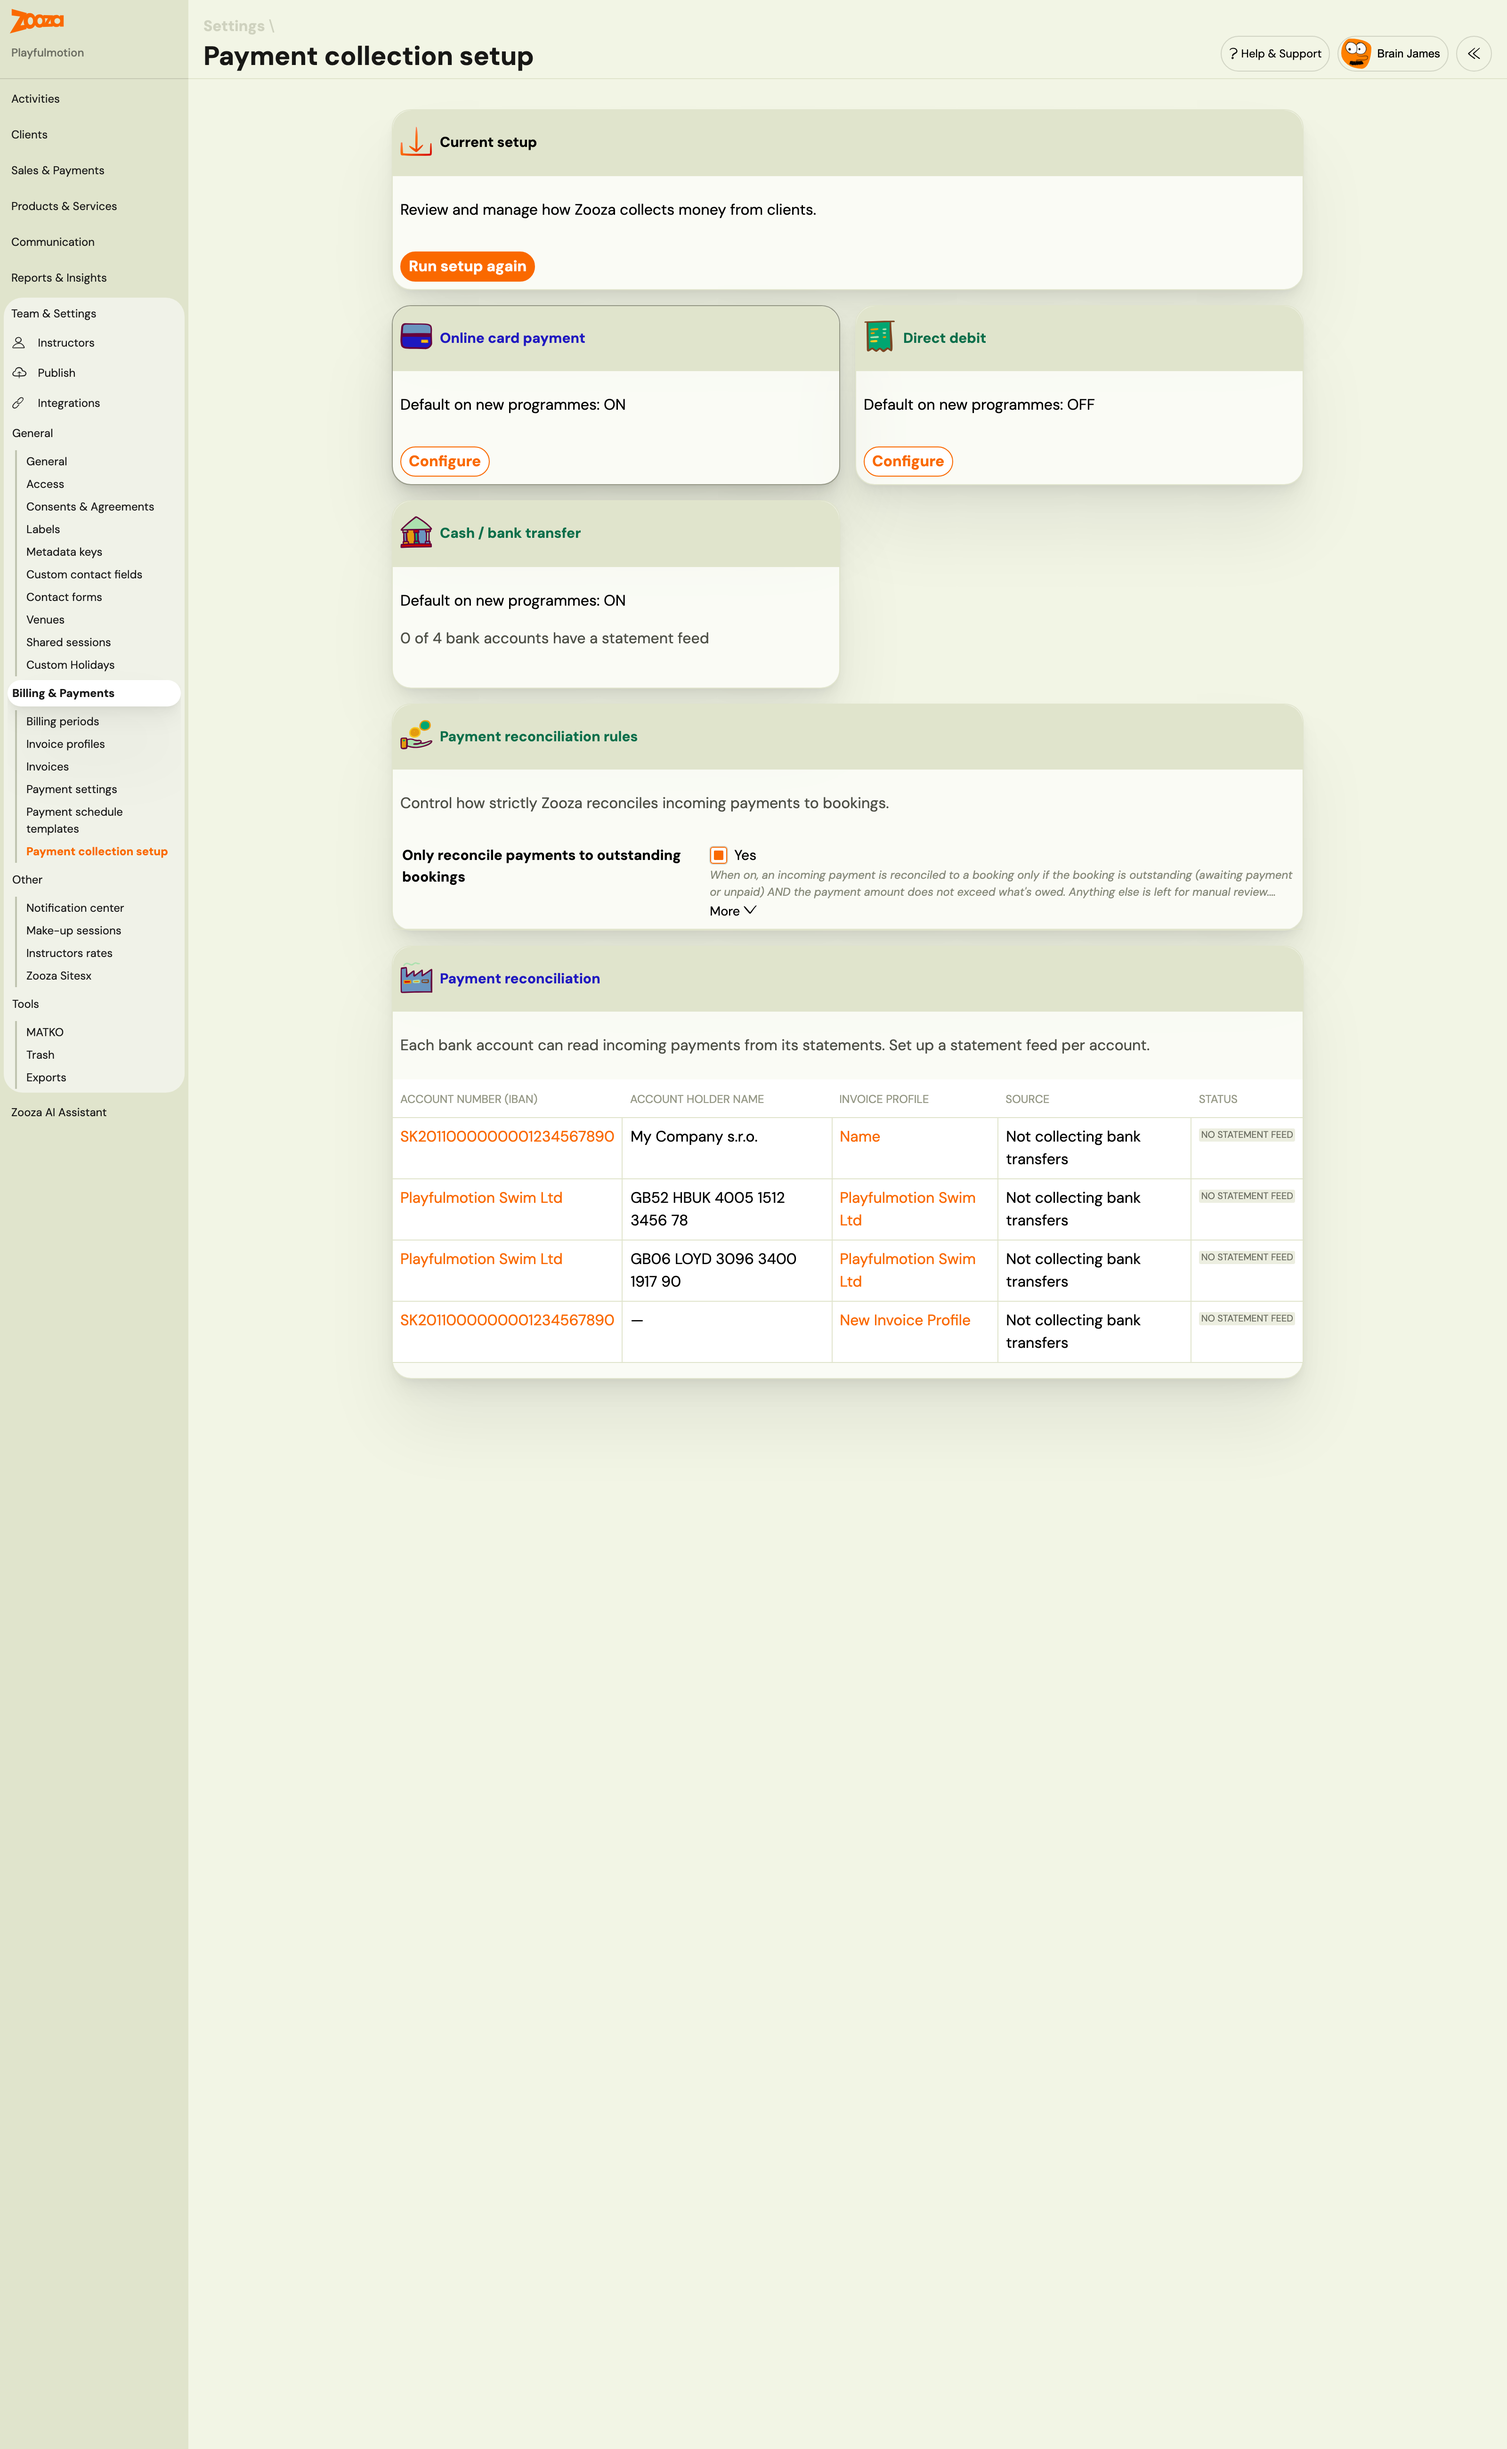
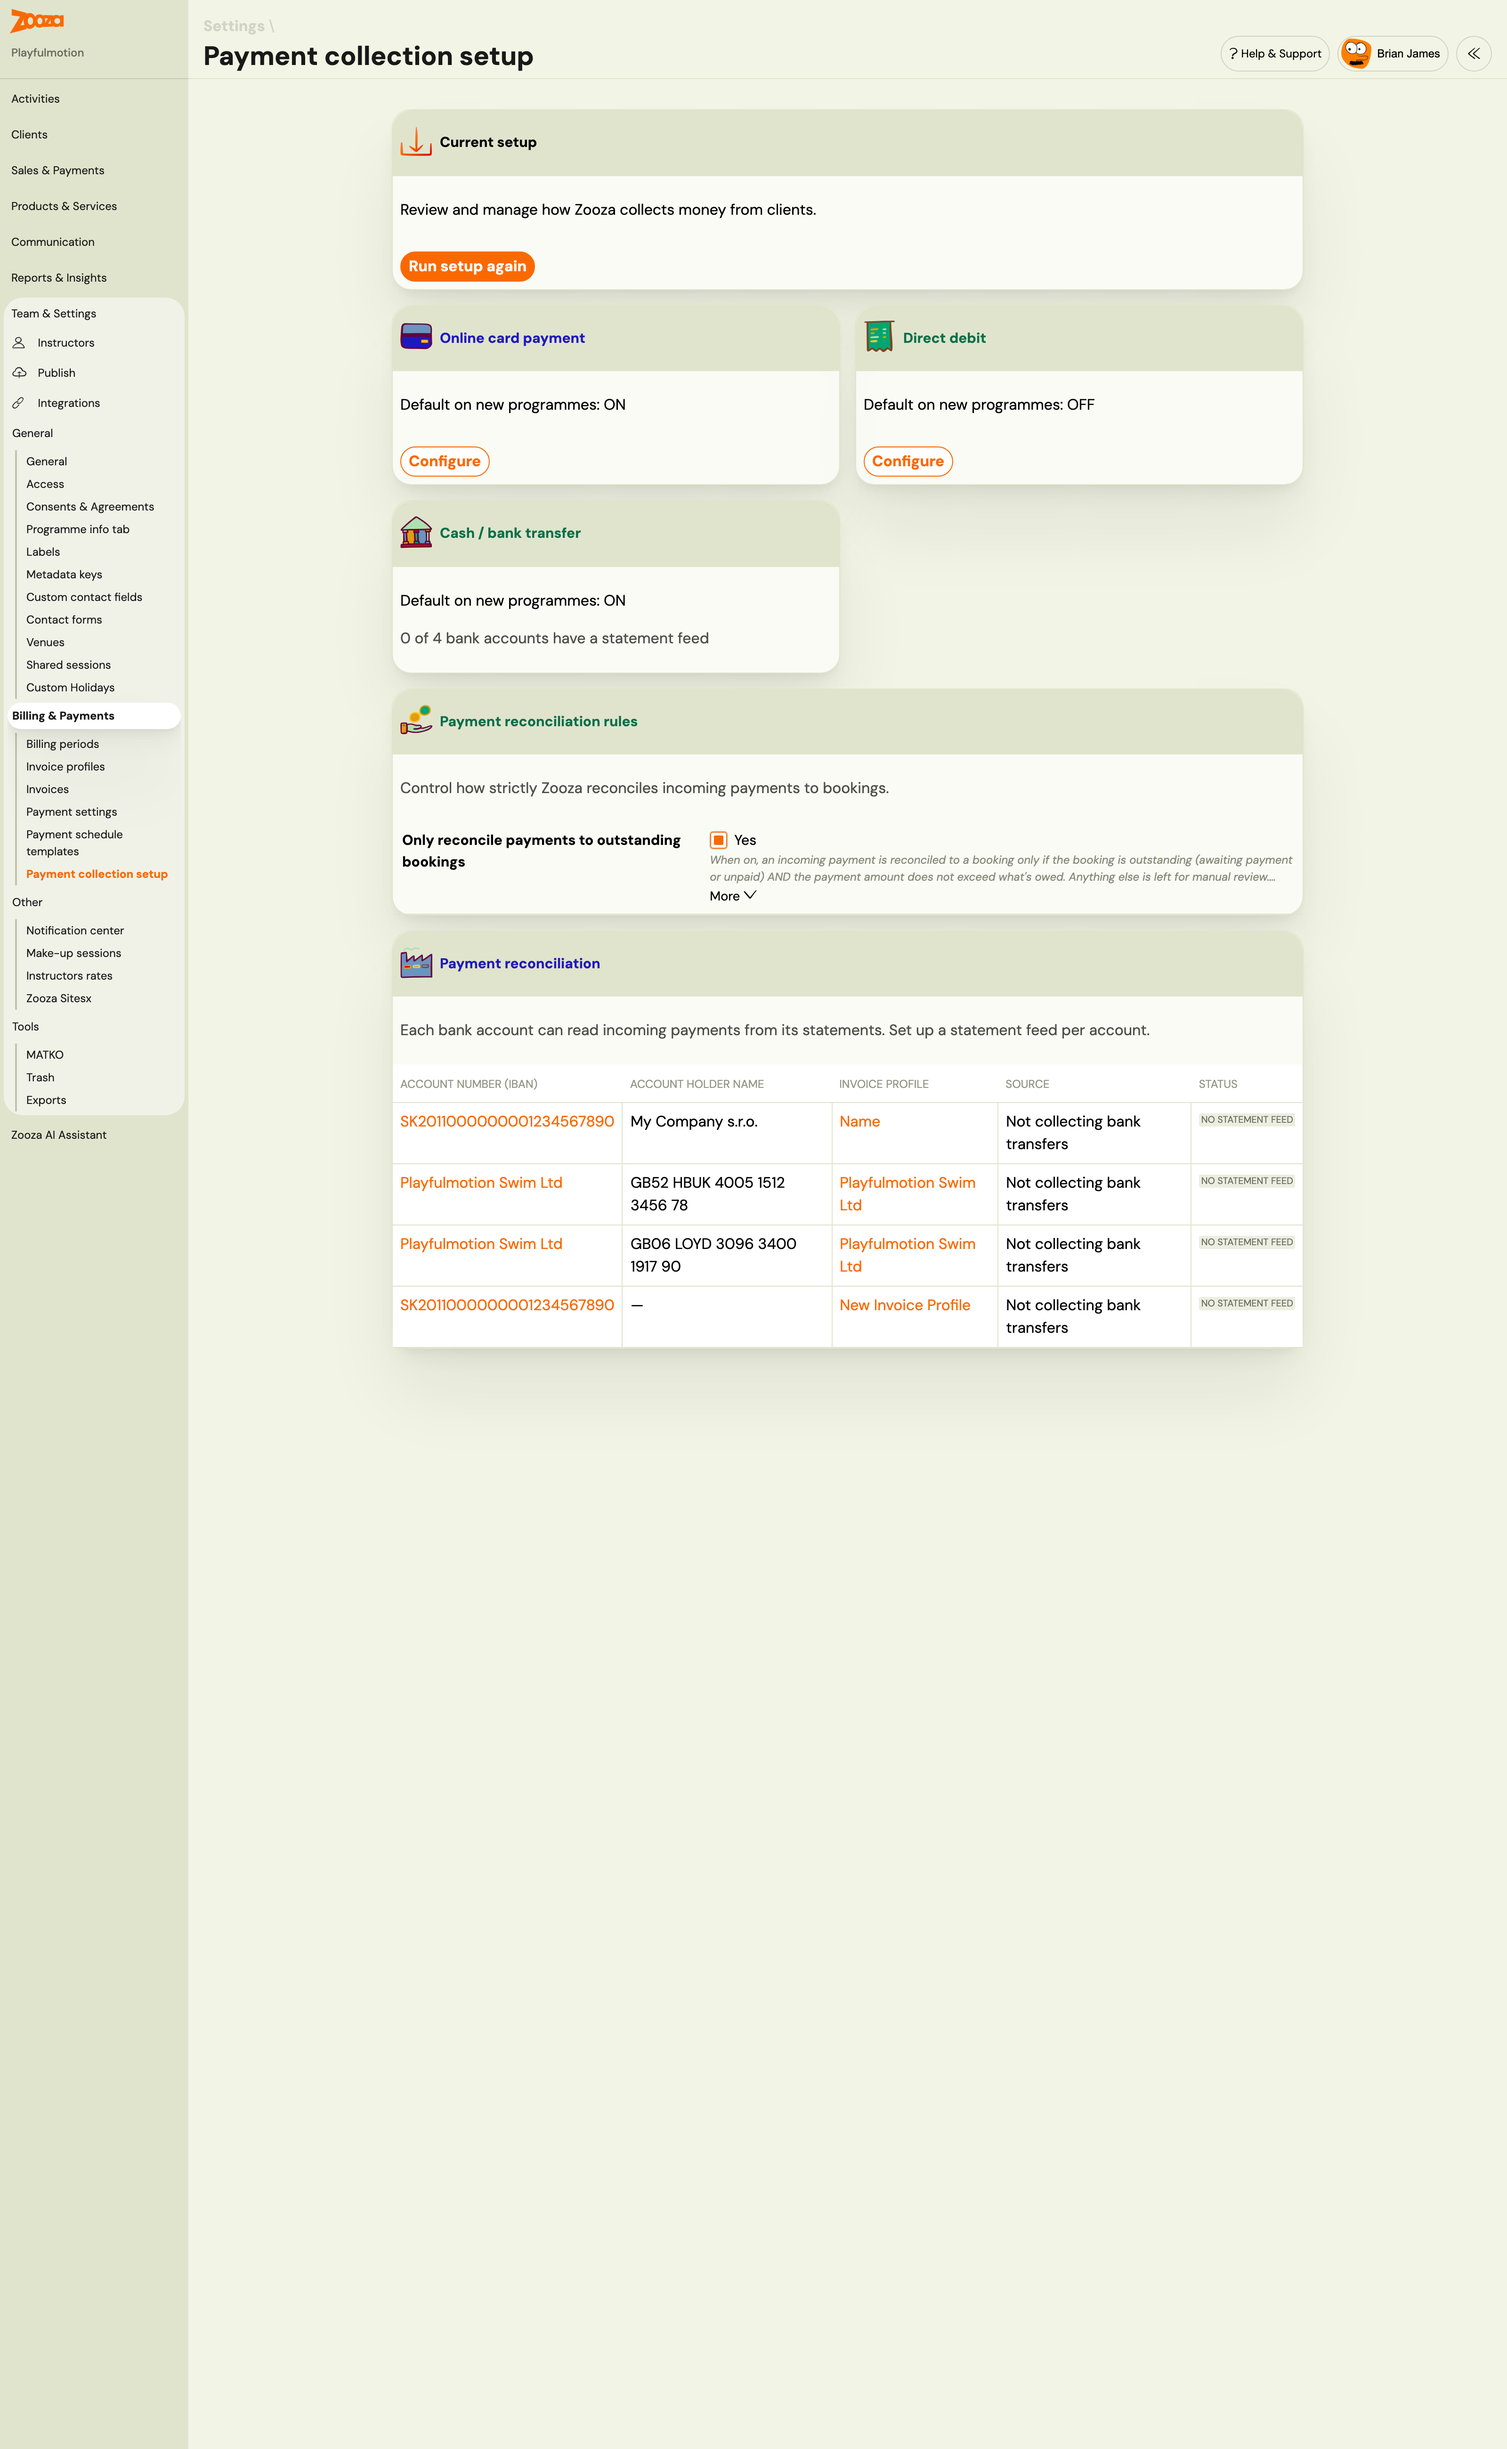
docs: reshot three settings screens - and measured that the other 35 did not need it
Re-ran the 38 approved Settings shots from the live account and then compared
each new capture with the one in the repo, content area only, sidebar
excluded. Thirty of them came back 0.0-0.5% different. The Settings screens
have not drifted at all; the audit put them at the top on age alone, and age
turned out to be the weak signal here. Churning 38 binaries for a slightly
different sidebar would have been work with nothing behind it.

Applied the three that genuinely moved: the contact form editor has grown
more fields, and the two payment collection setup screens are mildly newer.

Rejected trash-and-restore-01 deliberately: the new capture is correct and
useless, because the demo account's Trash is now empty and the picture shows
"No items have been deleted". The old one, with four restorable rows, teaches
what the article is about. A newer screenshot is not automatically a better
one.

It did earn its capture though: the banner on that screen now reads
"sessions, classes, programmes, bookings, cancelled payments and contacts",
where our table was still missing contacts. Added, with a note to trust the
banner over any list we write down, since it has grown twice this year.

Changed region(s): [[0.25, 0.2492, 0.875, 0.5608], [0.0, 0.2181, 0.125, 0.405], [0.0, 0.405, 0.125, 0.4673]]

diff --git a/content/guides/trash-and-restore.md b/content/guides/trash-and-restore.md
@@ -11,7 +11,7 @@ status: "published"
 source_legacy_path: ""
 source_language: "en"
 needs_screenshot_replacement: false
-last_converted: "2026-10-30"
+last_converted: "2026-11-06"
 related_articles: ["archive-or-delete-programme", "registration-status-faq", "ad-hoc-scheduled-payment"]
 ---
 
@@ -51,8 +51,9 @@ This is the most common source of confusion. A registration (or class) can be in
 | **Registration** | A client's booking on a class |
 | **Programme** (course) | A whole programme, with everything under it. Added October 2026 |
 | **Cancelled payment** | A scheduled payment that was cancelled via bulk cancel or the cancel action on a booking |
+| **Contact** | An enquiry from your website's contact form |
 
-Items deleted more than 30 days ago are permanently gone and cannot be recovered from here.
+Items deleted more than 30 days ago are permanently gone and cannot be recovered from here. The banner on the screen lists the current set, so trust it over any list written down — it has grown twice in 2026.
 
 > **A programme is the exception to "permanently gone".** Nothing actually hard-deletes a
 > programme — after 30 days it simply stops appearing in Trash and can no longer be

diff --git a/content/setup/inbound-payments-setup.md b/content/setup/inbound-payments-setup.md
@@ -11,7 +11,7 @@ status: "published"
 source_legacy_path: ""
 source_language: "en"
 needs_screenshot_replacement: false
-last_converted: "2026-09-19"
+last_converted: "2026-11-06"
 related_articles: ["invoice-profiles-and-bank-accounts", "inbound-payments", "payment-pairing", "gocardless-connection-lifecycle", "billing-and-invoicing"]
 ---
 

diff --git a/content/setup/contact-form-setup.md b/content/setup/contact-form-setup.md
@@ -12,7 +12,7 @@ status: "published"
 source_legacy_path: ""
 source_language: "en"
 needs_screenshot_replacement: false
-last_converted: "2026-09-19"
+last_converted: "2026-11-06"
 ---
 
 # Set up a contact form
